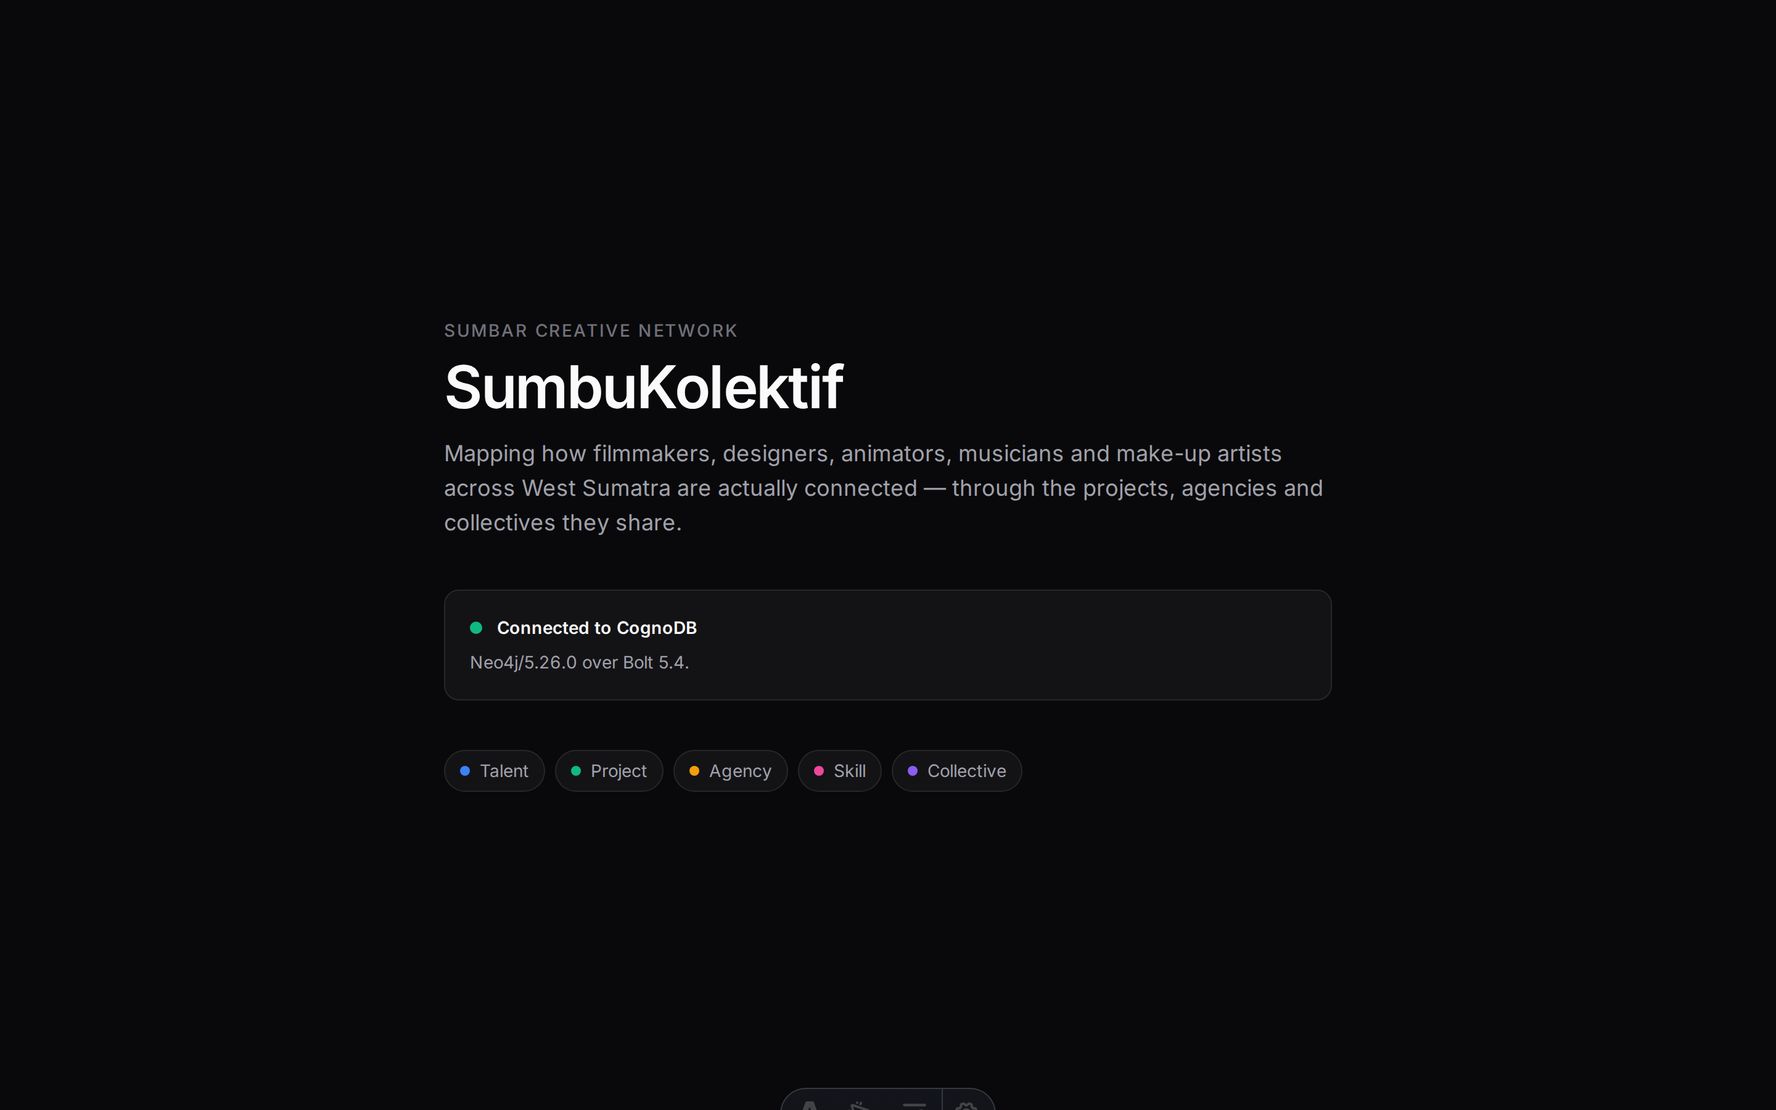
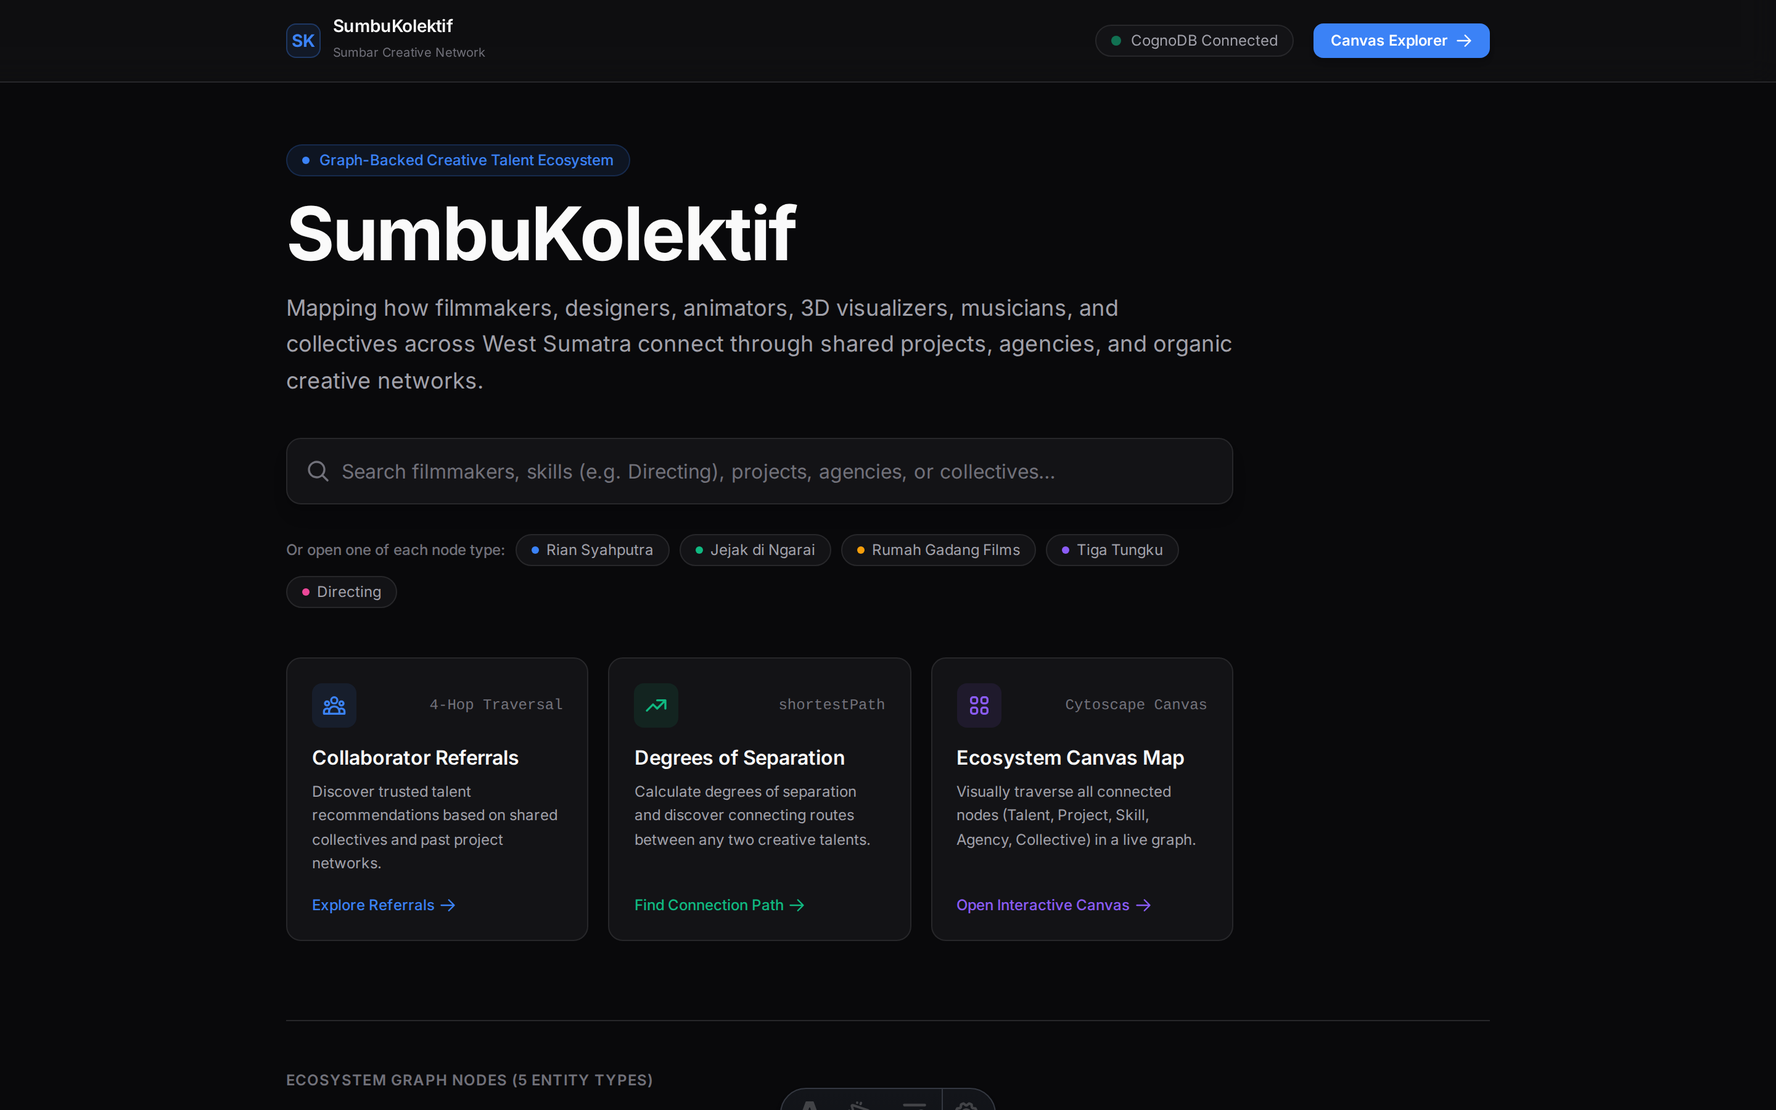
docs: cover the landing page the docs never mentioned
The homepage gained a live search, five one-click nodes and an entity
card that traverses in place, and none of the four documents knew. Each
one was wrong in its own way rather than merely incomplete:

- README described the app as canvas-first, so the first thing a
  reviewer touches was undocumented. It now covers the card-vs-canvas
  choice, both hydration directives and why they differ, and the deep
  links that connect the two views.
- architecture.md gained 3.3-3.5: the two callers now sharing
  /api/search and /api/node, the query parameters the explorer opens
  from, and the seed check behind the featured ids. Its script table
  also claimed `npm run check` was `astro check` alone, which is the
  claim that let a broken component through once already.
- PRD.md capability 1 described canvas entry only, and referenced the
  mobile screenshot at its pre-renumbering path.
- demo-script.md quoted a badge reading "Connected to CognoDB". The app
  renders "CognoDB Connected". Every string in it is now read off the
  running app, and the recording opens on the homepage flow.

Screenshots renumbered to keep reading order: 01-home re-captured, and
02-entity-modal added for the card, pushing the explorer shots to 03-07.

diff --git a/README.md b/README.md
@@ -22,8 +22,9 @@ in whoever has been in the industry longest.
 SumbuKolektif makes it queryable. Three things it answers:
 
 1. **Who is out there, and how is anyone connected to anyone?** Search a person,
-   project, agency, collective or skill; open it; see everything one hop away and
-   keep walking.
+   project, agency, collective or skill from the landing page; open it; see
+   everything one hop away and keep walking, either in the card that opens over
+   the page or on the canvas.
 2. **Who should I hire that I have not worked with?** Pick a person and a skill.
    The app returns people with that skill reachable through a shared production
    agency, and excludes anyone the requester has already shared a project with —
@@ -36,36 +37,49 @@ Every answer carries its evidence. A recommendation names the agency and both
 productions that link the two people, so the reader can judge whether the
 introduction is worth making.
 
+Any node the app can show has a URL. The card's Copy Link and the inspector's
+Share both hand back `/explore?select=<id>`, and Find Path on a talent gives
+`/explore?tab=path&from=<id>` with the dropdown already set. A producer can send
+someone a person rather than instructions for finding them.
+
 ## Screenshots
 
 The landing page checks the database on every request, so the badge reflects the
-live instance rather than build time.
+live instance rather than build time. The search box queries the graph directly;
+the row of chips below it holds one node of each type, for a visitor who does not
+yet know a name to type.
 
-![Landing page with a live CognoDB connection badge](docs/screenshots/01-home.png)
+![Landing page: search box, one chip per node type, and a live CognoDB connection badge](docs/screenshots/01-home.png)
+
+A search hit or a chip opens the entity card. Its neighbours are buttons, so a
+visitor can walk several hops without leaving the page, and back up through the
+ones they have already opened.
+
+![Entity card for Rian Syahputra: two skills, one collective, three directing credits](docs/screenshots/02-entity-modal.png)
 
 All 73 nodes, laid out force-directed. Colour encodes type.
 
-![The network explorer with the full graph laid out](docs/screenshots/02-explorer.png)
+![The network explorer with the full graph laid out](docs/screenshots/03-explorer.png)
 
 Opening a talent shows their skills, collectives and credits, with the role they
 held on each production. Every neighbour is clickable.
 
-![Inspector open on Rian Syahputra, showing skills, collective and three directing credits](docs/screenshots/03-inspector.png)
+![Inspector open on Rian Syahputra, showing skills, collective and three directing credits](docs/screenshots/04-inspector.png)
 
 The path finder reports degrees of separation, then reads the chain back as a
 sentence and highlights it on the canvas. This route runs through a skill both
 people hold and a festival they both crewed.
 
-![Path panel: Rian Syahputra to Wulan Safitri, two introductions away over four hops](docs/screenshots/04-path.png)
+![Path panel: Rian Syahputra to Wulan Safitri, two introductions away over four hops](docs/screenshots/05-path.png)
 
 The recommendation explains itself: which agency, which production on each side,
 and the role that person held.
 
-![Suggest panel recommending Tia Rahmadani, a DoP reachable through Batang Arau Media](docs/screenshots/05-recommendations.png)
+![Suggest panel recommending Tia Rahmadani, a DoP reachable through Batang Arau Media](docs/screenshots/06-recommendations.png)
 
 Narrow widths stack the panels rather than splitting the screen.
 
-![The explorer at 390px, canvas above and inspector below](docs/screenshots/06-mobile.png)
+![The explorer at 390px, canvas above and inspector below](docs/screenshots/07-mobile.png)
 
 ---
 
@@ -196,7 +210,7 @@ The seeded dataset holds 73 nodes and 161 relationships: 30 talents, 20 projects
 ## How it works
 
 ```text
-[ Browser — Svelte island: graph canvas + inspector ]
+[ Browser — Svelte islands: home search + entity card, graph canvas + inspector ]
             │
             │ fetch() → JSON
             ▼
@@ -210,12 +224,21 @@ The seeded dataset holds 73 nodes and 161 relationships: 30 talents, 20 projects
 Nothing is prerendered. Every page depends on live graph data, so `astro.config`
 sets `output: 'server'` and each request renders on a Vercel Function.
 
-**The canvas is a client-only island.** Cytoscape's `fcose` layout touches
-`window`, so `GraphCanvas.svelte` mounts with `client:only="svelte"` and never
-runs during SSR. That leaves the server with nothing to paint on first request,
-which is why `explore.astro` passes a `slot="fallback"` — it is server-rendered
-and swapped out on hydration, so the first frame says "Starting the explorer…"
-instead of being blank. The island calls `cy.destroy()` on unmount.
+**Two islands, two hydration directives, for two different reasons.**
+`GraphCanvas.svelte` is `client:only="svelte"` because Cytoscape's `fcose` layout
+touches `window` and would throw during SSR. That leaves the server with nothing
+to paint on first request, which is why `explore.astro` passes a
+`slot="fallback"` — server-rendered, swapped out on hydration, so the first frame
+says "Starting the explorer…" instead of being blank. The island calls
+`cy.destroy()` on unmount. `HomeSearch.svelte` is `client:load` instead: it
+renders fine on the server, so the search box, the chips and the three cards are
+in the first HTML response and are readable before any JavaScript arrives.
+
+**Deep links are the handoff between the two.** The explorer reads its opening
+state from the query string, so a URL is enough to describe a view: `?select=<id>`
+(or `?node=<id>`) opens the inspector on that node, `?tab=detail|path|suggest`
+picks the panel, and `?from=<id>&to=<id>` fills the path form and traces it
+without a click. That is what the card's Copy Link and Find Path buttons produce.
 
 **One driver per process.** All database access goes through the singleton in
 `src/lib/cognodb.ts`; nothing else calls `neo4j.driver()`. A serverless function
@@ -250,6 +273,11 @@ Validation and error mapping are the only logic in a route.
 | `/api/recommendations` | `talentId`, `skill` | Query A. |
 | `/api/path` | `from`, `to` | Query B. |
 | `/api/health` | — | 503 when the database is unreachable. |
+
+`/api/search` and `/api/node` each serve two callers. The explorer uses them for
+its search box and inspector; the landing page uses the same two for its search
+box and entity card, which is why walking the graph from the homepage needed no
+new endpoint.
 
 ### When things break
 
@@ -435,19 +463,21 @@ imported, and another handing a prop the wrong shape.
 
 ```text
 src/
-├── components/     Svelte islands: GraphCanvas, Inspector, SearchBox,
-│                   PathPanel, RecommendPanel, and the Explorer that owns them
+├── components/     Svelte islands: HomeSearch and EntityModal on the landing
+│                   page; GraphCanvas, Inspector, SearchBox, PathPanel,
+│                   RecommendPanel, and the Explorer that owns them
 ├── layouts/        Layout.astro
 ├── lib/
 │   ├── cognodb.ts       The driver singleton, readQuery(), checkHealth()
 │   ├── graph.ts         Every Cypher query, one exported function each
 │   ├── api.ts           jsonOk, toErrorResponse, requireParam
 │   ├── client.ts        Typed fetch wrapper used by the islands
+│   ├── featured.ts      The landing page's one-click nodes, checked by the seed
 │   ├── graph-style.ts   Cytoscape stylesheet, tokens read from CSS at mount
 │   └── relationships.ts Relationship types rendered as English
 ├── pages/
 │   ├── api/        graph, node, search, recommendations, path, health
-│   ├── index.astro Landing page with the live connection badge
+│   ├── index.astro Landing page: live connection badge, search, entity legend
 │   └── explore.astro
 └── styles/global.css    Tailwind v4 @theme tokens
 
@@ -459,6 +489,7 @@ docs/
 ├── PRD.md               Scope and deliverables
 ├── database.md          Schema, all five queries, and the reasoning behind them
 ├── architecture.md      Connection lifecycle, error taxonomy, API contract
+├── demo-script.md       Beats for the screen recording
 └── design-system.md     Tokens, type scale, motion
 ```
 

diff --git a/docs/architecture.md b/docs/architecture.md
@@ -3,16 +3,21 @@
 ## 1. Stack Topology
 
 * **Application tier**: Astro 7 in SSR mode (`output: 'server'`), deployed to
-  Vercel through the `@astrojs/vercel` adapter. Interactive islands are Svelte 5;
-  the graph canvas is Cytoscape.js with the `fcose` force-directed layout,
-  mounted `client:only="svelte"`.
+  Vercel through the `@astrojs/vercel` adapter. Interactive islands are Svelte 5.
+  The graph canvas is Cytoscape.js with the `fcose` force-directed layout,
+  mounted `client:only="svelte"` because that layout touches `window`. The
+  landing page's search and entity card (`HomeSearch.svelte`, which owns
+  `EntityModal.svelte`) mount `client:load` instead — they render on the server,
+  so the search box and its chips are in the first HTML response.
 * **Database tier**: CognoDB Cloud, free-tier instance `c0`
   (0.5 vCPU, 256 MB RAM, 1 GB disk, 200 connections), reached over
   `bolt+s://` — Bolt 5.4 against a Neo4j 5.26 server.
 * **Driver**: the official `neo4j-driver` for Node.js.
 
 ```text
-[ Browser — Svelte island: graph canvas + inspector ]
+[ Browser — Svelte islands ]
+    landing:  search + entity card
+    explorer: graph canvas + inspector
             │
             │ fetch() → JSON
             ▼
@@ -113,6 +118,47 @@ do encode their type, but depending on that would couple every request to the
 seed script's naming, and the client already knows the label from whatever
 payload handed it the id.
 
+### 3.3 Two callers per route
+
+`/api/search` and `/api/node` each serve two islands. The explorer calls them for
+its search box and inspector; the landing page calls the same two for its search
+box and entity card. Adding graph traversal to the homepage therefore added no
+endpoint and no query — `EntityModal` walks by calling `/api/node` again with the
+neighbour the visitor clicked, and keeps the nodes it came from on a stack so the
+back button can replay them.
+
+The label `EntityModal` sends is the one that arrived in a previous response,
+never a value a visitor typed, so §3.2's allowlist is checking server-issued data
+on this path. It is still checked; a client is a client.
+
+### 3.4 The explorer's opening state comes from the URL
+
+`Explorer.svelte` reads the query string once, after `/api/graph` resolves, so
+every view the app can show is addressable:
+
+| Parameter | Effect |
+| --- | --- |
+| `select=<id>` (or `node=<id>`) | Opens the inspector on that node. |
+| `tab=detail\|path\|suggest` | Chooses the panel. Anything else is ignored. |
+| `from=<id>`, `to=<id>` | Fills the path form; both present traces immediately. |
+
+`select` is resolved against the overview payload already in memory rather than
+fetched, so an id that is not in the graph opens nothing instead of erroring. The
+Copy Link and Share buttons produce `?select=`, and Find Path produces
+`?tab=path&from=`. Both use `navigator.clipboard`, which needs a secure context —
+they work on the deployed HTTPS site and on `localhost`, and silently do nothing
+if the page is ever served over plain HTTP from another host.
+
+### 3.5 Featured entities are checked by the seed
+
+The landing page offers five one-click nodes, one per type, listed in
+`src/lib/featured.ts`. They are hand-picked, so they can drift from the dataset,
+and once did: two ids shipped that the seed had never written, and clicking them
+opened the entity card on "Unable to load connections". `scripts/seed.ts` now
+resolves every id in that list against the graph it just wrote and fails the seed
+on a missing node or a mismatched label — the same reasoning that already makes
+Queries A and B part of the seed rather than a manual follow-up.
+
 ## 4. Environment Variables
 
 Read strictly from the runtime environment and never committed. `.env` is
@@ -132,8 +178,8 @@ deployed build.
 | Command | Purpose |
 | --- | --- |
 | `npm run probe` | Runs `scripts/probe-cognodb.js` — checks connectivity and confirms the Cypher features this app relies on (`shortestPath`, variable-length paths, constraints, `MERGE` idempotency). Writes only under a `_Probe` label and cleans up after itself, so it is safe against a seeded database. |
-| `npm run seed` | Wipes and repopulates the graph with the mock dataset. |
-| `npm run check` | `astro check` — type checking across `.astro`, `.ts`, `.svelte`. |
+| `npm run seed` | Wipes and repopulates the graph with the mock dataset, then runs the app's own Query A and Query B against what it just wrote and resolves the landing page's featured ids. Exits non-zero if any check fails. |
+| `npm run check` | `astro check`, then `svelte-check --threshold error`. Both are needed: `astro check` does not read inside `.svelte` files, so on its own it passes a component calling a function it never imported. |
 | `npm run build` | Production SSR build through the Vercel adapter. |
 
 ## 6. Known Advisory

diff --git a/docs/demo-script.md b/docs/demo-script.md
@@ -1,8 +1,8 @@
 # Demo recording script
 
-Six beats, about two and a half minutes. Every quoted string below was read off
-the hosted deployment, so if a beat says something different on the take, the
-data changed and the take should stop.
+Seven beats, about three minutes. Every quoted string below was read off the
+running app, so if a beat says something different on the take, the data changed
+and the take should stop.
 
 **Before recording.** Load <https://kolektif-kreatif-sumbar.vercel.app> once and
 let the explorer finish, so the Vercel function is warm. Cold, the first
@@ -14,15 +14,46 @@ reads better side by side.
 
 ## 1. The landing page (~15 s)
 
-Open `/`. The badge says **Connected to CognoDB**, with `Neo4j/5.26.0 over Bolt
-5.4.` under it.
+Open `/`. The header badge says **CognoDB Connected**; the footer says `CognoDB
+Neo4j/5.26.0`.
 
 > This is a live check, not a build-time string. Every request asks the database
 > whether it is there.
 
-Point at the four node-type counts, then click through to the explorer.
+Point at the three cards — **Collaborator Referrals**, **Degrees of Separation**,
+**Ecosystem Canvas Map** — then stay on the page.
 
-## 2. The graph (~20 s)
+## 2. Answering from the homepage (~30 s)
+
+Type `ngarai` into the search box. Two hits appear while typing:
+
+    Jejak di Ngarai   Film              Project
+    Ngarai Pictures   Production House  Agency
+
+> One query across all five node types, debounced, 200 ms after the last
+> keystroke.
+
+Clear it and click the **Rian Syahputra** chip instead.
+
+> Five chips, one per node type, for a visitor who does not have a name to type.
+
+The card opens: `SKILLS (2)` Directing and Screenwriting, `MEMBER OF (1)`
+Kolektif Layar Tancap, `WORKED ON (3)` — Jejak di Ngarai, Anak Rantau and Lagu
+untuk Bundo, all as Director.
+
+> The role sits on the relationship, not on the person. Rian is Director on these
+> three, and could be something else on a fourth.
+
+Click **Kolektif Layar Tancap** inside the card. It reloads in place to
+`MEMBERS (5)`: Rian Syahputra, Bayu Pratama, Sari Wulandari, Doni Saputra, Reza
+Fadillah. A back arrow appears in the header.
+
+> Traversal without leaving the front page and without loading the canvas. Same
+> endpoint the explorer uses — `/api/node`, one node and its neighbours.
+
+Press the back arrow once to show the stack, then **Explore Canvas**.
+
+## 3. The graph (~20 s)
 
 `/explore` paints **Laying out the network…** first, then the canvas resolves.
 
@@ -32,20 +63,19 @@ Point at the four node-type counts, then click through to the explorer.
 
 Let it settle. Do not narrate over the layout animation; it is short.
 
-## 3. Search and inspect (~25 s)
+## 4. Search and inspect (~20 s)
 
-Type `rian` in the search box. One hit. Click it.
+Type `rian` in the explorer's own search box. One hit. Click it.
 
-The inspector opens on **Rian Syahputra** with `SKILLS (2)` Directing and
-Screenwriting, `MEMBER OF (1)` Kolektif Layar Tancap, and `WORKED ON (3)` — Anak
-Rantau, Jejak di Ngarai and Lagu untuk Bundo, all as Director.
+The inspector opens on **Rian Syahputra** with the same skills, collective and
+three credits, and a **Share 🔗** button next to Close.
 
-> The role sits on the relationship, not on the person. Rian is Director on these
-> three, and could be something else on a fourth.
+> Share copies `/explore?select=talent-rian-syahputra`. Every node in this app has
+> a URL, so a result can be sent to someone instead of described.
 
 Click one of the neighbours to show that traversal keeps going.
 
-## 4. Degrees of separation (~35 s)
+## 5. Degrees of separation (~35 s)
 
 Path tab. **Rian Syahputra** to **Wulan Safitri**. Trace the connection.
 
@@ -61,7 +91,7 @@ Read the chain off the screen:
 > recursive CTE with a visited-set you maintain yourself, and it still hands back
 > only the number, not the route.
 
-## 5. The hop no relational query would find (~25 s)
+## 6. The hop no relational query would find (~25 s)
 
 Same tab. **Yusra Hakim** to **Elok Permata**.
 
@@ -75,7 +105,7 @@ Same tab. **Yusra Hakim** to **Elok Permata**.
 
 This is the beat that makes the case for the graph. Do not rush it.
 
-## 6. Recommendation, and its explanation (~30 s)
+## 7. Recommendation, and its explanation (~30 s)
 
 Suggest tab. **Rian Syahputra**, skill **Cinematography**.
 
@@ -108,3 +138,5 @@ credits.
 - The database-unreachable state. It works, and it is described in the README,
   but faking an outage on camera costs 30 s and reads as filler.
 - The mobile layout. The 390 px screenshot is already in the README.
+- A search that matches nothing. `zzzz` returns "No entities match “zzzz”" with
+  three suggested terms, which is correct and dull. Beat 2 is more convincing.

diff --git a/docs/PRD.md b/docs/PRD.md
@@ -18,15 +18,16 @@ Executing these queries in SQL requires expensive, deeply nested `JOIN` operatio
 
 ## 3. Core Capabilities & Scope
 
-1. **Graph Network Explorer**: A non-technical UI to visually traverse and search nodes (`Talent`, `Project`, `Agency`, `Collective`, `Skill`) and their directional relationships.
+1. **Graph Network Explorer**: A non-technical UI to visually traverse and search nodes (`Talent`, `Project`, `Agency`, `Collective`, `Skill`) and their directional relationships. Entry is from the landing page — a live search across all five labels, plus one pre-picked node per type for a visitor with no name in mind — and opens an entity card whose neighbours are themselves clickable, so shallow traversal happens before the canvas is ever loaded.
 2. **Multi-Hop Collaboration Discovery**: Query engine designed to execute $\ge 2$-hop traversals to recommend crew members based on implicit mutual networks. The shipped query is 4 hops talent-to-talent.
 3. **Shortest Path Finder**: Calculate degrees of separation between any two talents, and show the path that produced the answer — including routes through shared collectives that no project-based query would find.
+4. **Addressable views**: Every node and both queries have a URL. `/explore?select=<id>` opens the inspector on a node, `?tab=` picks a panel, and `?from=&to=` traces a path on load, so a result can be sent to someone rather than described.
 
 ## 4. Evaluation Criteria Alignment
 
 * **Graph Model Soundness**: Typed relationships, labeled nodes, and proper property modeling.
 * **Query Safety**: 100% parameterized Cypher queries via the official Neo4j driver (zero string concatenation).
-* **UX & Resilience**: Clean loading states, empty fallback states, error boundaries for DB timeouts, and full mobile responsiveness. The stacked narrow-width layout is captured at 390px in `docs/screenshots/06-mobile.png`; the unreachable-database and empty-graph states were walked with the network layer stubbed, and both leave search working and hide the panels that cannot answer.
+* **UX & Resilience**: Clean loading states, empty fallback states, error boundaries for DB timeouts, and full mobile responsiveness. The stacked narrow-width layout is captured at 390px in `docs/screenshots/07-mobile.png`; the unreachable-database and empty-graph states were walked with the network layer stubbed, and both leave search working and hide the panels that cannot answer. UI copy is English throughout, per the assignment brief.
 
 ## 5. Submission Deliverables
 
